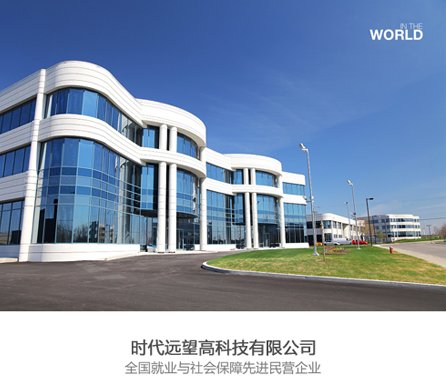
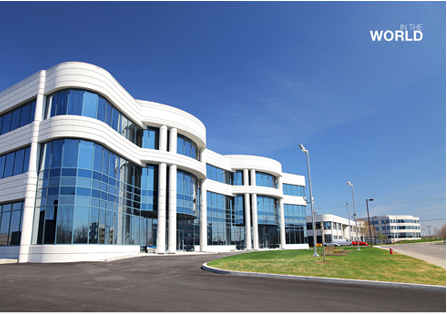
dx

diff --git a/styles/css_scss/styles.css b/styles/css_scss/styles.css
@@ -595,7 +595,8 @@ body {
     overflow: hidden; }
     .xn_about_top .xn_about_gs img {
       width: 100%;
-      object-fit: cover; }
+      object-fit: cover;
+      margin-bottom: 20px; }
     .xn_about_top .xn_about_gs .title {
       text-align: center;
       color: #000000;

diff --git a/styles/css_scss/scss/_xn.scss b/styles/css_scss/scss/_xn.scss
@@ -244,6 +244,7 @@ body {
         img{
             width: 100%;
             object-fit: cover;
+            margin-bottom: 20px;
         }
         .title{
             text-align: center;
